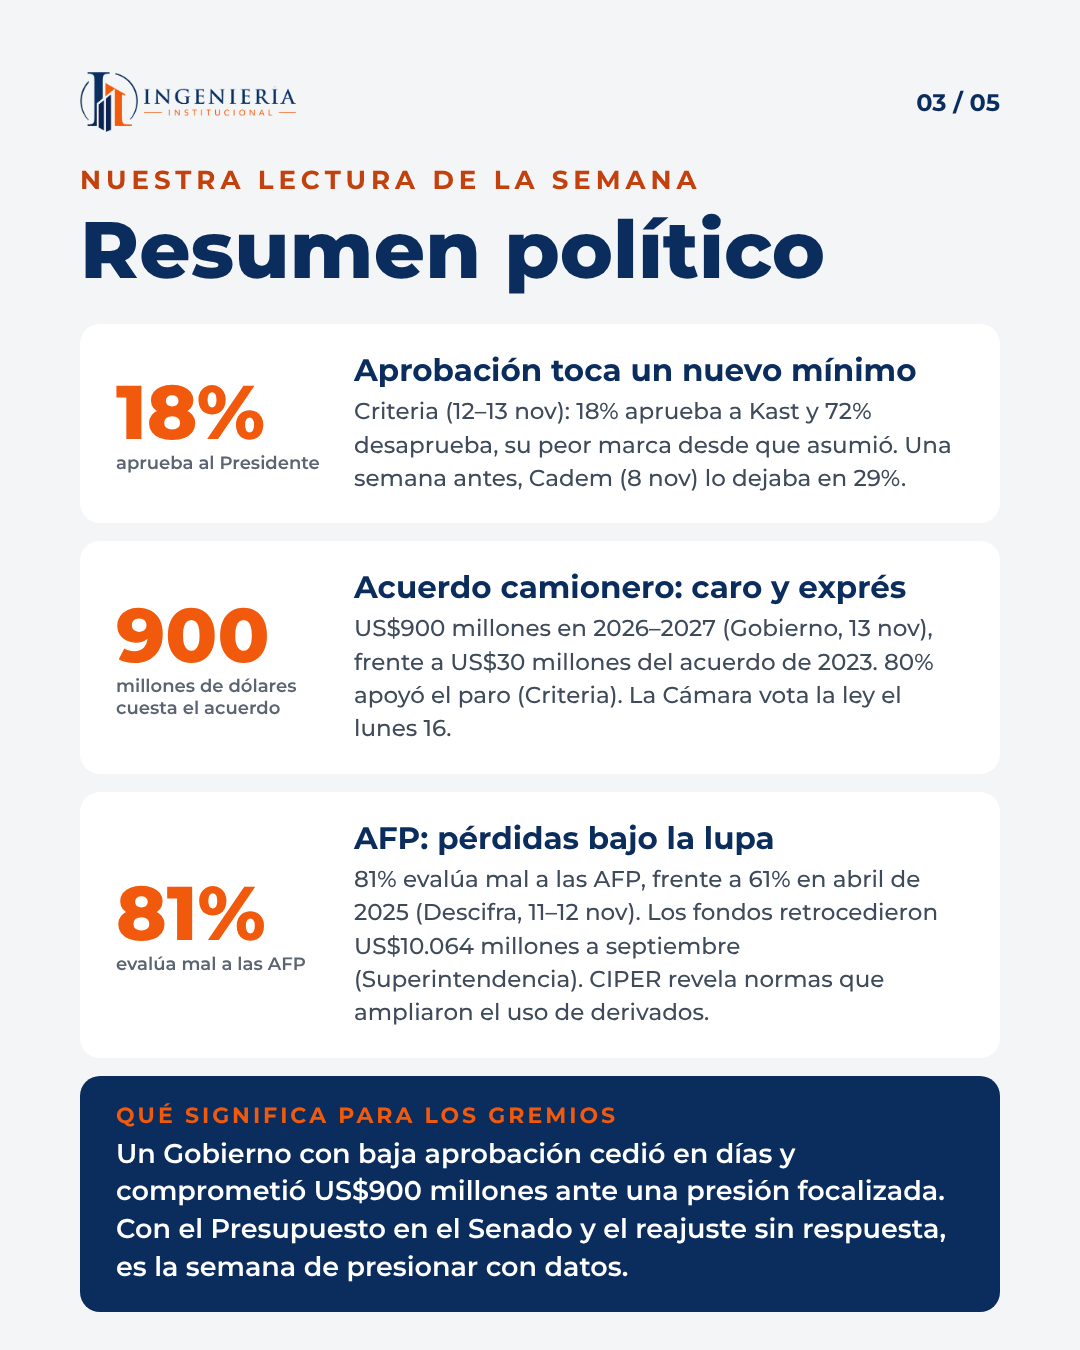
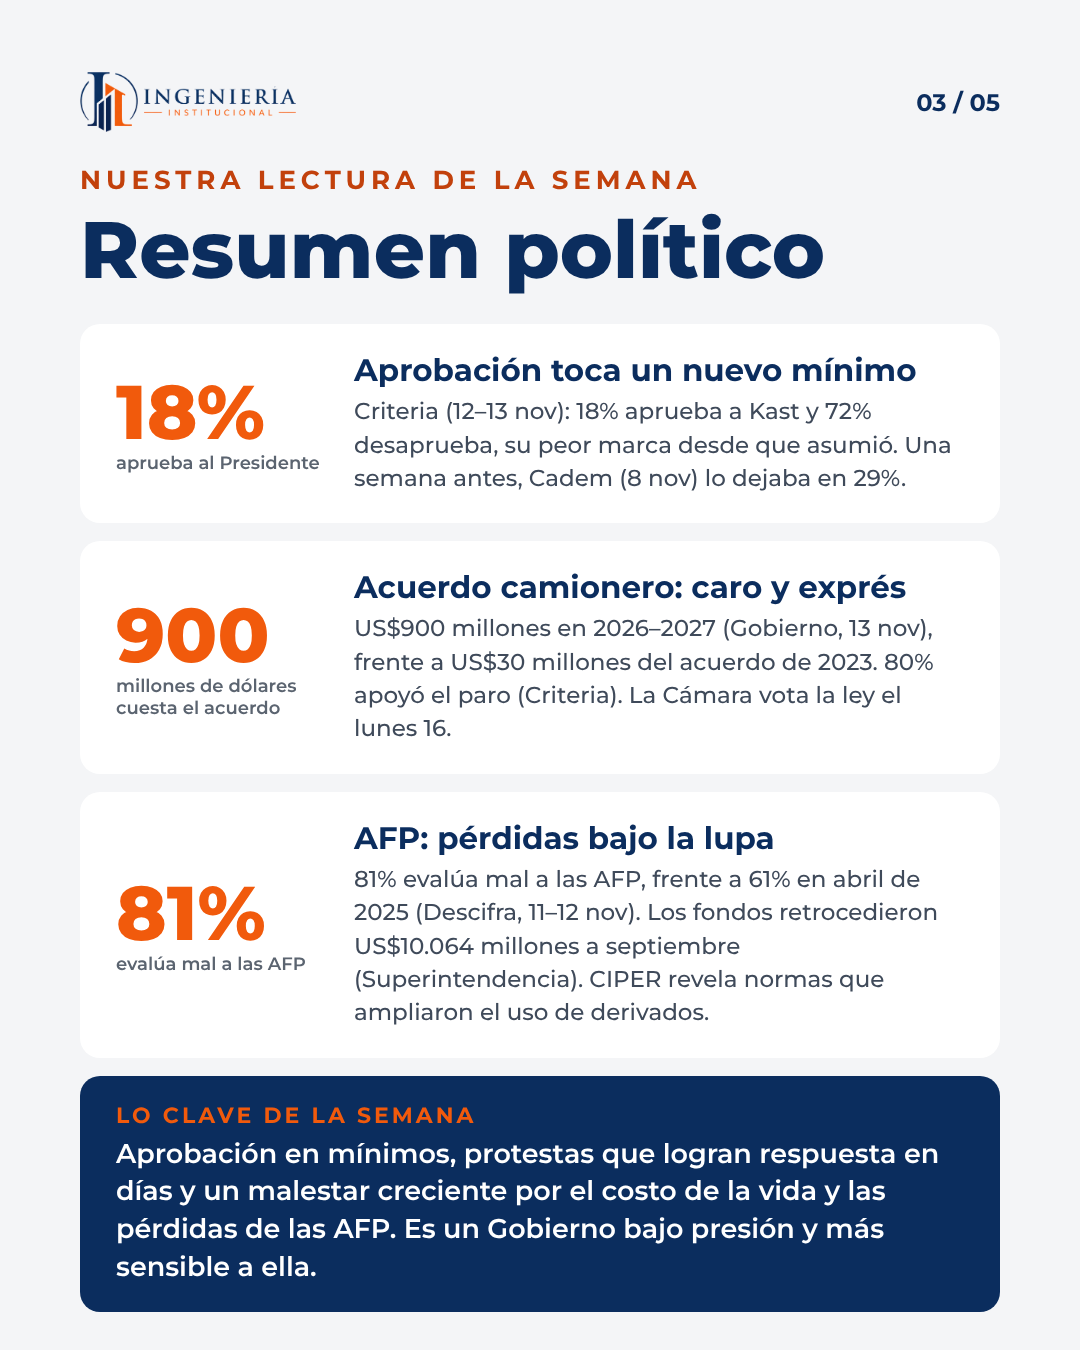
Edición N° 2: «Lo clave de la semana», Sala Cuna en seguimiento y ajustes de redacción

Changed region(s): [[0.0917, 0.8089, 0.8861, 0.9644]]

diff --git a/assets/site.js b/assets/site.js
@@ -50,7 +50,7 @@
     c.append(el('span', 'ic-pol-num', r.cifra), el('span', 'ic-pol-lab', r.etiqueta), el('h3', null, r.titulo), rich('p', null, r.texto));
     $('ic-pol').append(c);
   });
-  $('ic-cierre-titulo').textContent = ed.resumen.cierre_titulo || 'Qué significa para los gremios';
+  $('ic-cierre-titulo').textContent = ed.resumen.cierre_titulo || 'Lo clave de la semana';
   $('ic-cierre').textContent = ed.resumen.cierre || '';
 
   // 03 Seguimiento legislativo

diff --git a/plantillas/carrusel.js b/plantillas/carrusel.js
@@ -83,7 +83,7 @@
       c.append(izq, der);
       cuerpo.append(c);
     });
-    cuerpo.append(cajaAzul(ed.resumen.cierre_titulo || 'Qué significa para los gremios', ed.resumen.cierre, 27));
+    cuerpo.append(cajaAzul(ed.resumen.cierre_titulo || 'Lo clave de la semana', ed.resumen.cierre, 27));
     s.append(encabezado(3), titulo('Nuestra lectura de la semana', 'Resumen político'), cuerpo);
     return s;
   }

diff --git a/GUIA-EDITORIAL.md b/GUIA-EDITORIAL.md
@@ -40,7 +40,7 @@ Como plantilla se usa la edición anterior: se copia su `edicion.json` y se actu
 
 - `id`, `numero` (correlativo), `estado` (`"borrador"` o `"publicada"`), `rango` (por ejemplo, "9 al 13 de noviembre de 2026").
 - `portada.kicker` ("Edición N° 2 · 9 al 13 de noviembre 2026") y `portada.bajada` (se mantiene).
-- `resumen.items`: exactamente 3, cada uno con `cifra` (un número llamativo, como "22%"), `etiqueta` (2 a 5 palabras), `titulo` (hasta unos 40 caracteres) y `texto` (hasta unos 230 caracteres, con la fuente entre paréntesis). Además, `resumen.cierre_titulo` ("Qué significa para los gremios") y `resumen.cierre` (hasta unos 200 caracteres).
+- `resumen.items`: exactamente 3, cada uno con `cifra` (un número llamativo, como "22%"), `etiqueta` (2 a 5 palabras), `titulo` (hasta unos 40 caracteres) y `texto` (hasta unos 230 caracteres, con la fuente entre paréntesis). Además, `resumen.cierre_titulo` ("Lo clave de la semana": la idea que amarra lo más importante de la semana) y `resumen.cierre` (hasta unos 200 caracteres).
 - `frentes`: los temas legislativos o administrativos en seguimiento. Cada uno lleva:
   - Para el sitio: `frente`, `pasos` (etapas separadas por `|`), `paso_actual` (empieza en 1), `en_que_va`, `que_viene`, `que_hacer` y `detalle` (opcional, más extenso).
   - Para el carrusel, en `carrusel`: `titulo`, `etiqueta` (la etapa, en pocas palabras), `color` (`"naranjo"` si hay una urgencia o algo en juego esta semana, `"azul"` si está en implementación o estable), `texto` (hasta unos 230 caracteres; se puede usar `**negrita**` en cifras clave) y `proximo` (el próximo hito con fecha).
